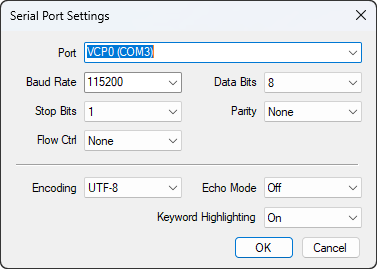
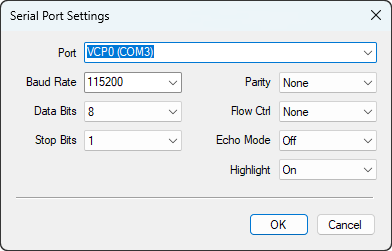
refactor: remove unused console encoding mode configuration
Remove the encoding format toggle functionality (UTF-8 / GBK) since it is no longer required.

- Strip out the encoding selection logic from code configuration
- Remove the Ctrl+A, Ctrl+C hotkey binding for encoding toggle
- Update About Box dialog reminders in resource script
- Clean up the Encoding section in README.md documentation

diff --git a/WinSerial.cpp b/WinSerial.cpp
@@ -9,6 +9,7 @@
 // - Add Show console help menu
 // - Add Show About dialog
 // - Add Show portName in the console title
+// - Remove encoding mode
 // ---------------------------------------------------------------------------
 // WinSerial.cpp : Defines the entry point for the application.
 //
@@ -125,9 +126,8 @@ typedef struct
     DWORD StopBit;
     DWORD Parity;
     DWORD FlowControl;
-    DWORD EncodingFormat;      // Encoding Format      : 0=UTF8, 1=GBK
-    DWORD EchoMode;            // Echo Mode            : 0=Off(Char mode), 1=On(Line mode)
     DWORD KeywordHighlighting; // Keyword Highlighting : 0=Off, 1=On
+    DWORD EchoMode;            // Echo Mode            : 0=Off(Char mode), 1=On(Line mode)
 } SERIAL_CONFIG;
 
 static void WriteSerialConfig(const SERIAL_CONFIG &cfg)
@@ -144,36 +144,10 @@ static void WriteSerialConfig(const SERIAL_CONFIG &cfg)
         ::RegSetValueEx(hKey, L"StopBit", 0, dwType, (CONST LPBYTE)&cfg.StopBit, dwSize);
         ::RegSetValueEx(hKey, L"Parity", 0, dwType, (CONST LPBYTE)&cfg.Parity, dwSize);
         ::RegSetValueEx(hKey, L"FlowControl", 0, dwType, (CONST LPBYTE)&cfg.FlowControl, dwSize);
-        ::RegSetValueEx(hKey, L"EncodingFormat", 0, dwType, (CONST LPBYTE)&cfg.EncodingFormat, dwSize);
-        ::RegSetValueEx(hKey, L"EchoMode", 0, dwType, (CONST LPBYTE)&cfg.EchoMode, dwSize);
         ::RegSetValueEx(hKey, L"KeywordHighlighting", 0, dwType, (CONST LPBYTE)&cfg.KeywordHighlighting, dwSize);
+        ::RegSetValueEx(hKey, L"EchoMode", 0, dwType, (CONST LPBYTE)&cfg.EchoMode, dwSize);
         ::RegCloseKey(hKey);
     }
-}
-
-static void ToggleEncodingFormat(SERIAL_CONFIG &cfg)
-{
-    // Toggle encoding format
-    cfg.EncodingFormat = (cfg.EncodingFormat == 0) ? 1 : 0;
-
-    // Apply new encoding format
-    if (cfg.EncodingFormat == 0) // UTF-8
-    {
-        SetConsoleOutputCP(CP_UTF8);
-        SetConsoleCP(CP_UTF8);
-        std::cout << std::endl
-                  << "\033[32mConsole encoding: UTF-8\033[0m" << std::endl;
-    }
-    else // GBK
-    {
-        SetConsoleOutputCP(936);
-        SetConsoleCP(936);
-        std::cout << std::endl
-                  << "\033[32mConsole encoding: GBK\033[0m" << std::endl;
-    }
-
-    // Save configuration to registry
-    WriteSerialConfig(cfg);
 }
 
 static SERIAL_CONFIG ReadSerialConfig()
@@ -186,9 +160,8 @@ static SERIAL_CONFIG ReadSerialConfig()
     cfg.StopBit = ONESTOPBIT;
     cfg.Parity = NOPARITY;
     cfg.FlowControl = 0;
-    cfg.EncodingFormat = 0;      // Default to UTF-8 encoding
-    cfg.EchoMode = 0;            // Default echo mode off
     cfg.KeywordHighlighting = 1; // Default keyword highlighting on
+    cfg.EchoMode = 0;            // Default echo mode off
     if (ERROR_SUCCESS == ::RegOpenKeyEx(HKEY_CURRENT_USER, L"SOFTWARE\\WinSerial", 0, KEY_READ, &hKey))
     {
         DWORD dwSize = sizeof(DWORD);
@@ -200,9 +173,8 @@ static SERIAL_CONFIG ReadSerialConfig()
         ::RegQueryValueEx(hKey, L"StopBit", 0, &dwType, (LPBYTE)&cfg.StopBit, &dwSize);
         ::RegQueryValueEx(hKey, L"Parity", 0, &dwType, (LPBYTE)&cfg.Parity, &dwSize);
         ::RegQueryValueEx(hKey, L"FlowControl", 0, &dwType, (LPBYTE)&cfg.FlowControl, &dwSize);
-        ::RegQueryValueEx(hKey, L"EncodingFormat", 0, &dwType, (LPBYTE)&cfg.EncodingFormat, &dwSize);
-        ::RegQueryValueEx(hKey, L"EchoMode", 0, &dwType, (LPBYTE)&cfg.EchoMode, &dwSize);
         ::RegQueryValueEx(hKey, L"KeywordHighlighting", 0, &dwType, (LPBYTE)&cfg.KeywordHighlighting, &dwSize);
+        ::RegQueryValueEx(hKey, L"EchoMode", 0, &dwType, (LPBYTE)&cfg.EchoMode, &dwSize);
         ::RegCloseKey(hKey);
     }
     // Update the global flag
@@ -218,13 +190,11 @@ static void ShowHelp(SERIAL_CONFIG &cfg)
     std::cout << std::endl;
     std::cout << "Current configurations:" << std::endl;
     std::cout << "\033[32m  Keyword Highlighting: " << (cfg.KeywordHighlighting == 0 ? "Off" : "On") << "\033[0m" << std::endl;
-    std::cout << "\033[32m      Console encoding: " << (cfg.EncodingFormat == 0 ? "UTF-8" : "GBK") << "\033[0m" << std::endl;
     std::cout << "\033[32m             Echo mode: " << (cfg.EchoMode == 0 ? "Off" : "On") << "\033[0m" << std::endl;
     std::cout << std::endl;
     std::cout << "Hotkeys (You must press Ctrl+A first to enter Command Mode," << std::endl;
     std::cout << "         followed by one of the action keys below):" << std::endl;
     std::cout << "\033[33m  Ctrl+A, Ctrl+F: Toggle automatic Keyword Highlighting (On / Off)\033[0m" << std::endl;
-    std::cout << "\033[33m  Ctrl+A, Ctrl+C: Toggle console Encoding format (UTF-8 / GBK)\033[0m" << std::endl;
     std::cout << "\033[33m  Ctrl+A, Ctrl+E: Toggle local Echo mode (On / Off)\033[0m" << std::endl;
     std::cout << "\033[33m  Ctrl+A, Ctrl+I: Display application version and information dialog\033[0m" << std::endl;
     std::cout << "\033[33m  Ctrl+A, Ctrl+H: Display this help menu\033[0m" << std::endl;
@@ -397,10 +367,6 @@ static void DoStreamToStream(TStream1 &stream1, TStream2 &stream2, std::vector<u
                                     stream2.cancel();
                                     exit(0);
                                 }
-                            }
-                            else if (ch == 3) // Ctrl+C: Toggle encoding format
-                            {
-                                ToggleEncodingFormat(*pCfg);
                             }
                             else if (ch == 5) // Ctrl+E: Toggle echo mode
                             {
@@ -632,19 +598,11 @@ int wmain(int argc, const WCHAR *args[])
             }
             else
             {
-                // Set console according to user's selected encoding format
-                if (cfg.EncodingFormat == 0) // UTF-8
-                {
-                    SetConsoleOutputCP(CP_UTF8);
-                    SetConsoleCP(CP_UTF8);
-                }
-                else // GBK
-                {
-                    SetConsoleOutputCP(936); // 936 is the codepage for GBK
-                    SetConsoleCP(936);
-                }
+                // Set console encoding format UTF-8
+                SetConsoleOutputCP(CP_UTF8);
+                SetConsoleCP(CP_UTF8);
 
-                // Display current encoding format
+                // Display current version
                 std::cout << "\033[36mWinSerial " << APP_VERSION_STR << "\033[0m" << std::endl;
                 std::cout << "\033[33mPress Ctrl+A then Ctrl+H for help\033[0m" << std::endl;
                 std::cout << std::endl;
@@ -770,20 +728,15 @@ INT_PTR CALLBACK SettingFunc(HWND hDlg, UINT message, WPARAM wParam, LPARAM lPar
         ComboBox_AddString(hWndFlowControl, L"RTS/CTS");
         ComboBox_SetCurSel(hWndFlowControl, (int)(cfg.FlowControl));
 
-        auto hWndEncoding = GetDlgItem(hDlg, IDC_COMBO_ENCODING);
-        ComboBox_AddString(hWndEncoding, L"UTF-8");
-        ComboBox_AddString(hWndEncoding, L"GBK");
-        ComboBox_SetCurSel(hWndEncoding, (int)(cfg.EncodingFormat));
+        auto hWndKeywordHighlighting = GetDlgItem(hDlg, IDC_COMBO_HIGHLIGHT);
+        ComboBox_AddString(hWndKeywordHighlighting, L"Off");
+        ComboBox_AddString(hWndKeywordHighlighting, L"On");
+        ComboBox_SetCurSel(hWndKeywordHighlighting, (int)(cfg.KeywordHighlighting));
 
         auto hWndEchoMode = GetDlgItem(hDlg, IDC_COMBO_ECHO);
         ComboBox_AddString(hWndEchoMode, L"Off");
         ComboBox_AddString(hWndEchoMode, L"On");
         ComboBox_SetCurSel(hWndEchoMode, (int)(cfg.EchoMode));
-
-        auto hWndKeywordHighlighting = GetDlgItem(hDlg, IDC_COMBO_HIGHLIGHT);
-        ComboBox_AddString(hWndKeywordHighlighting, L"Off");
-        ComboBox_AddString(hWndKeywordHighlighting, L"On");
-        ComboBox_SetCurSel(hWndKeywordHighlighting, (int)(cfg.KeywordHighlighting));
 
         return (INT_PTR)TRUE;
     }
@@ -802,7 +755,6 @@ INT_PTR CALLBACK SettingFunc(HWND hDlg, UINT message, WPARAM wParam, LPARAM lPar
                 auto hWndStopBit = GetDlgItem(hDlg, IDC_COMBO_STOP);
                 auto hWndParity = GetDlgItem(hDlg, IDC_COMBO_PARITY);
                 auto hWndFlowControl = GetDlgItem(hDlg, IDC_COMBO_FLOW_CONTROL);
-                auto hWndEncoding = GetDlgItem(hDlg, IDC_COMBO_ENCODING);
                 auto hWndEchoMode = GetDlgItem(hDlg, IDC_COMBO_ECHO);
                 auto hWndKeywordHighlighting = GetDlgItem(hDlg, IDC_COMBO_HIGHLIGHT);
 
@@ -823,7 +775,6 @@ INT_PTR CALLBACK SettingFunc(HWND hDlg, UINT message, WPARAM wParam, LPARAM lPar
                 cfg.StopBit = ComboBox_GetCurSel(hWndStopBit);
                 cfg.Parity = ComboBox_GetCurSel(hWndParity);
                 cfg.FlowControl = ComboBox_GetCurSel(hWndFlowControl);
-                cfg.EncodingFormat = ComboBox_GetCurSel(hWndEncoding);
                 cfg.EchoMode = ComboBox_GetCurSel(hWndEchoMode);
                 cfg.KeywordHighlighting = ComboBox_GetCurSel(hWndKeywordHighlighting);
 

diff --git a/resource.h b/resource.h
@@ -20,9 +20,8 @@
 #define IDC_COMBO_STOP                  1005
 #define IDC_COMBO_PARITY                1006
 #define IDC_COMBO_FLOW_CONTROL          1007
-#define IDC_COMBO_ENCODING              1008
+#define IDC_COMBO_HIGHLIGHT             1009
 #define IDC_COMBO_ECHO                  1011
-#define IDC_COMBO_HIGHLIGHT             1012
 #define IDC_STATIC                      -1
 
 // Next default values for new objects

diff --git a/README.md b/README.md
@@ -18,7 +18,7 @@ A tool for connecting to a serial port for Windows, which can be integrated as a
   * **Red**: Errors and warnings (e.g., `error`, `failed`, `shutdown`).
   * **Green**: Success and operational statuses (e.g., `enabled`, `connected`, `ok`).
   * **Yellow/Cyan/Magenta**: Network identifiers (IPs, MAC addresses) and system configuration terms.
-* **On-the-Fly Hotkeys**: Quickly manage your active session using convenient shortcuts (press `Ctrl + A` to enter command mode, then press `Ctrl + C` to toggle encoding, `Ctrl + E` for echo mode, or `Ctrl + H` for the help menu).
+* **On-the-Fly Hotkeys**: Quickly manage your active session using convenient shortcuts (press `Ctrl + A` to enter command mode, then press `Ctrl + E` for echo mode, or `Ctrl + H` for the help menu).
 * **High Performance & Stability**: Built with C++ and utilizes the `boost::asio` library for reliable, asynchronous serial port communication.
 * **Smart Configuration Management**: Automatically saves your serial port settings (Baud Rate, Stop Bits, Word Length, etc.) to the Windows Registry, remembering your preferences for the next session.
 * **Easy Installation**: Available as a portable application or a fully automated installer (`WinSerial-setup.exe`) that configures your system `PATH` and adds the WinSerial profile directly to your Windows Terminal settings.
@@ -51,9 +51,8 @@ When launching WinSerial (either standalone or via Windows Terminal), a configur
 * **Port:** Select the target COM port from the dropdown menu.
 * **Baud Rate:** Choose the communication speed (e.g., `9600`, `115200`).
 * **Data Bits, Stop Bits, Parity, Flow Control:** Configure these settings based on your target device's specifications.
-* **Keyword Highlighting:** Enable or disable automatic keyword color highlighting (e.g., green for successes, red for errors).
-* **Encoding:** Select `UTF-8` or `GBK` to ensure proper character rendering.
 * **Echo Mode:** Toggle local echo `On` or `Off`.
+* **Highlight:** Enable or disable automatic keyword color highlighting (e.g., green for successes, red for errors).
 
 Click **OK** to establish the connection and launch the terminal session.
 
@@ -64,7 +63,6 @@ WinSerial features built-in hotkeys for on-the-fly configurations during an acti
 **Note:** You must press `Ctrl+A` first to enter **Command Mode**, followed by one of the action keys below:
 
 * `Ctrl+A, Ctrl+F`: Toggle automatic Keyword Highlighting (`On` / `Off`).
-* `Ctrl+A, Ctrl+C`: Toggle console encoding format (switches between `UTF-8` and `GBK`).
 * `Ctrl+A, Ctrl+E`: Toggle local Echo mode (`On` / `Off`).
 * `Ctrl+A, Ctrl+I`: Display application version and information dialog.
 * `Ctrl+A, Ctrl+H`: Display the help menu.